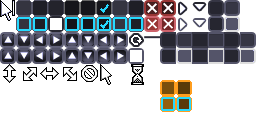
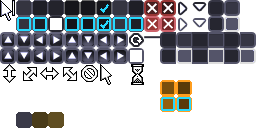
[KIT_SIGNALS_VIEW] The Signals table: Inputs above Outputs, a row a link flowing left to right with an arrow, signal names in the brand's cyan, a gap between entities, a Shown checkbox at the right edge, spare width to the name column and before the checkbox; a signal's click by either button opens 

Changed region(s): [[0.0625, 0.875, 0.25, 1.0]]

diff --git a/src/client/app.cpp b/src/client/app.cpp
@@ -1747,7 +1747,12 @@ struct CApp: public App, public magic::Application
 	float m_logical_scale = 1.f;
 	int m_logical_ox = 0;
 	int m_logical_oy = 0;
-	bool logical_mode() const { return m_command_seq_active && m_logical_w > 0; }
+	// BUILDAT_TEST_REAL_WINDOW: a drive of what a person's window does, the fit on
+	bool logical_mode() const
+	{
+		static const bool real = getenv("BUILDAT_TEST_REAL_WINDOW") != nullptr;
+		return !real && m_command_seq_active && m_logical_w > 0;
+	}
 	void update_logical_placement()
 	{
 		magic::Graphics *g = GetSubsystem<magic::Graphics>();
@@ -2652,6 +2657,11 @@ struct CApp: public App, public magic::Application
 				// scaled the UI down to fit itself ([LUANTI_CHAT_WRAP])
 				if(c->GetType() == magic::Text::GetTypeStatic() &&
 						static_cast<magic::Text *>(c)->GetWordwrap())
+					continue;
+				// Sized from the root less its margins (Kit's Signals view):
+				// after a fit it grows with the root and holds the fit down
+				// for good, the window enlarged or not
+				if(c->GetVar(magic::StringHash("FollowsRoot")).GetString() == "1")
 					continue;
 				const magic::IntVector2 sz = c->GetSize();
 				// The root's own size, give or take its rounding -- or its
